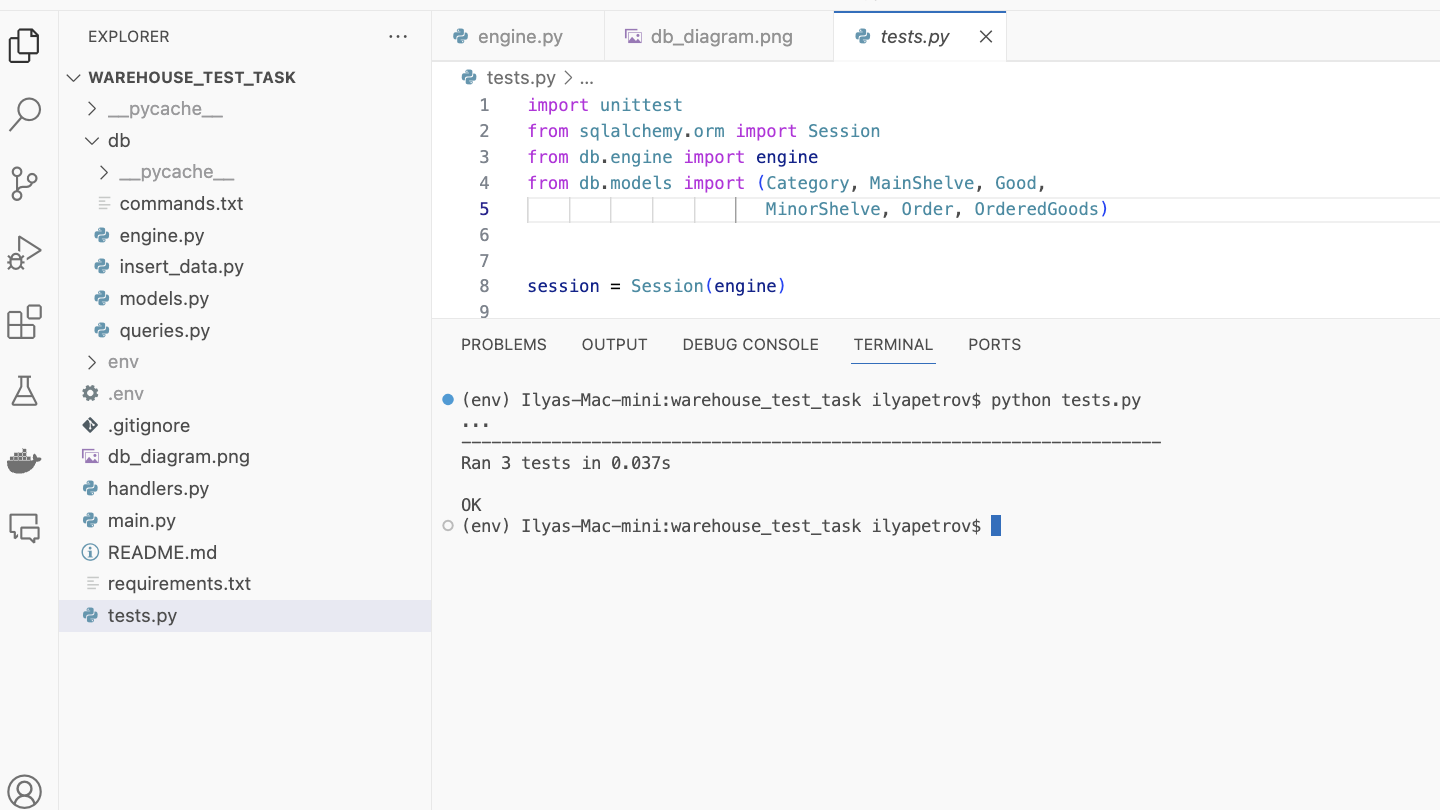
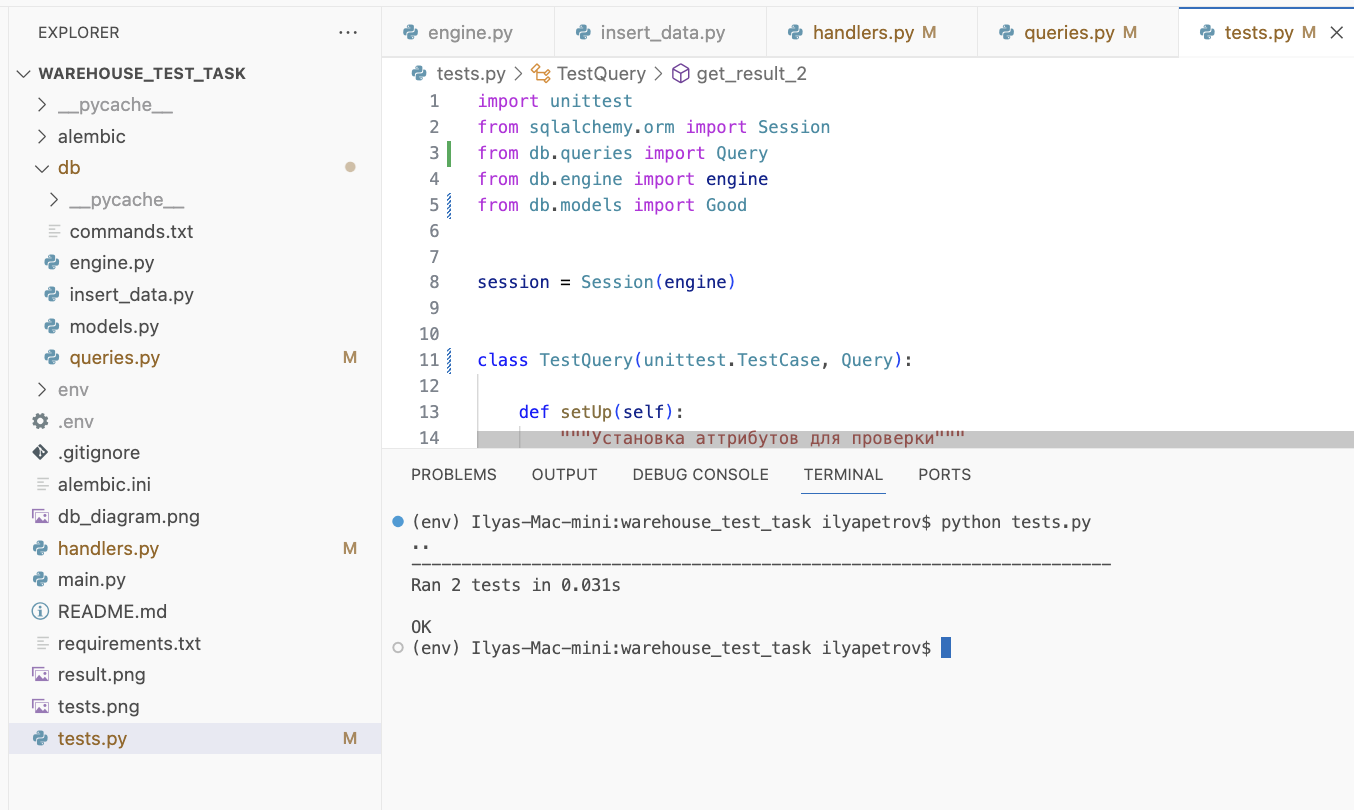
tests updated!

diff --git a/tests.py b/tests.py
@@ -1,89 +1,74 @@
 import unittest
 from sqlalchemy.orm import Session
+from db.queries import Query
 from db.engine import engine
-from db.models import (Category, MainShelve, Good,
-                       MinorShelve, Order, OrderedGoods)
+from db.models import Good
 
 
 session = Session(engine)
 
 
-class TestQuery(unittest.TestCase):
+class TestQuery(unittest.TestCase, Query):
 
     def setUp(self):
         """Установка аттрибутов для проверки"""
-        self.minor_shelves_1_good_category = 'Б, 5, Lenovo, Ноутбук'
-        self.minor_shelves_2_good_category = 'V, 3, Sennheiser, Микрофон'
-        self.order_category_mainshelve = 'Заказ 10, Ноутбук HP, Главный стеллаж A'
+        self.minor_shelves_1_good_category = '3, В, Xiaomi, Телефон'
+        self.order_category_mainshelve = 'Заказ 11, Телевизор Toshiba, id=2, Главный стеллаж А'
 
     def get_records_1(self, model_name):
         """Запрос к базе данных для получения информации
         по второстепенным стеллажам для товара"""
-        query = session.query(MinorShelve, Good, Category)
-        query = query.join(Good, MinorShelve.good_id == Good.id)
-        query = query.join(Category, Good.category_id == Category.id)
+        query = self.get_main_or_minor_shelves_for_goods(condition=False)
         query = query.filter(Good.model_name == model_name)
         records = query.all()
         return records
 
-    def get_records_2(self, order_number, model_name):
+    def get_records_2(self, order_number):
         """Запрос к базе данных для получения полной
-        информации по заказанному товару"""
-        query = session.query(OrderedGoods, Order, Good, Category, MainShelve)
-        query = query.join(Order, Order.id == OrderedGoods.order_id)
-        query = query.join(Good, Good.id == OrderedGoods.good_id)
-        query = query.join(Category, Good.category_id == Category.id)
-        query = query.join(MainShelve, Category.id == MainShelve.category_id)
-        query = query.filter(Order.number.in_(order_number))
-        query = query.filter(Good.model_name.in_(model_name))
-        records = query.all()
+        информации по заказу"""
+        records = self.get_all_orders(orders_list=order_number)
         return records
 
     def get_result_1(self, records):
         """Обработка запроса из базы данных по
         второстепенным стеллажам, формирование
-        конечного результата"""
+        результата"""
         result = ''
         for record in records:
-            minor_shelve = record[0]
-            result += f'{minor_shelve.name}, '
+            minor_shelve = record[3]
+            result += f'{minor_shelve.shelve}, '
         good = record[1]
         category = record[2]
         result += f'{good.model_name}, '
         result += f'{category.category}'
         return result
 
-    def get_result_2(self, record):
+    def get_result_2(self, records):
         """Обработка запроса из базы данных по
         заказанному товару, формирование
-        конечного результата"""
+        результата"""
         result = ''
-        order = record[0][1]
-        category = record[0][3]
-        good = record[0][2]
-        main_shelve = record[0][4]
+        order = records[0][1]
+        category = records[0][3]
+        good = records[0][2]
+        main_shelve = records[0][4]
         result += 'Заказ '
         result += f'{order.number}, '
         result += f'{category.category} {good.model_name}, '
-        result += f'Главный стеллаж {main_shelve.name}'
+        result += f'id={good.id}, '
+        result += f'Главный стеллаж {main_shelve}'
         return result
 
     def test_get_minor_shelves_1_good_category(self):
         """Тест 1"""
-        records = self.get_records_1(model_name='Lenovo')
+        records = self.get_records_1(model_name='Xiaomi')
         result = self.get_result_1(records=records)
         self.assertEqual(self.minor_shelves_1_good_category, result)
 
-    def test_get_minor_shelves_2_good_category(self):
-        """Тест 2"""
-        records = self.get_records_1(model_name='Sennheiser')
-        result = self.get_result_1(records=records)
-        self.assertEqual(self.minor_shelves_2_good_category, result)
-
     def test_get_order_category_mainshelve(self):
-        """Тест 3"""
-        record = self.get_records_2(order_number=[10], model_name=['HP'])
-        result = self.get_result_2(record=record)
+        """Тест 2"""
+        records = self.get_records_2(order_number=[11])
+        result = self.get_result_2(records=records)
         self.assertEqual(self.order_category_mainshelve, result)
 
 

diff --git a/db/queries.py b/db/queries.py
@@ -14,8 +14,12 @@ class Query:
     def get_all_orders(self, orders_list):
         """Запрос на получение информации по заказанным товарам
         и местах их хранения."""
-        subquery = self.get_main_or_minor_shelves_for_goods(condition=True).subquery()
-        query = session.query(OrderedGoods, Order, Good, Category, subquery.c.shelve)
+        subquery = (self.get_main_or_minor_shelves_for_goods
+                    (condition=True)
+                    .subquery())
+        query = session.query(
+            OrderedGoods, Order, Good, Category, subquery.c.shelve
+            )
         query = query.join(Order, Order.id == OrderedGoods.order_id)
         query = query.join(Good, Good.id == OrderedGoods.good_id)
         query = query.join(Category, Good.category_id == Category.id)

diff --git a/handlers.py b/handlers.py
@@ -23,7 +23,7 @@ class Handler(Query):
         print(
             f"Страница сборки заказов {', '.join([str(x) for x in self.orders_list])}\n"
             )
-        
+
         for ordered_good, order, good, category, main_shelve in records:
             if main_shelve != self.current_shelve:
                 self.current_shelve = main_shelve
